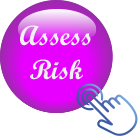
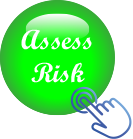
style: made zone buttons colourfull

diff --git a/src/app/pages/home-results/home-results.page.html b/src/app/pages/home-results/home-results.page.html
@@ -32,67 +32,49 @@
     </ion-card-header>
   </ion-card>
   <ion-card class="content-card home-content">
-    <ion-card-content>
       <ion-grid >
         <ion-row>
-          <ion-col size="" offset="">
-              <ion-item (click)="goToRiskAssessment()" button="true" >
-                <ion-img
-                  src="assets/button_icons/risk_assmt_bc.png" >
-                </ion-img>
-              </ion-item>                  
+          <ion-col size="4" offset="2">
+            <ion-img (click)="goToRiskAssessment()" button="true"
+              src="assets/button_icons/risk_assmt_bc.png" >
+            </ion-img>
           </ion-col>
-          <ion-col size="" offset="">
-            <ion-item (click)="goToTips()" button="true">
-                <ion-img
-                  src="assets/button_icons/general_bh_tips.png" >
-                </ion-img>
-            </ion-item>                
+          <ion-col size="4" offset="">
+            <ion-img (click)="goToTips()" button="true"
+              src="assets/button_icons/general_bh_tips.png" >
+            </ion-img>
           </ion-col>
         </ion-row>
         <ion-row>
-          <ion-col size="" offset="">
-            <ion-item (click)="goToSpecialist()" button="true" >
-              <ion-img               
+          <ion-col size="4" offset="">
+              <ion-img (click)="goToSpecialist()" button="true"              
                 src="assets/button_icons/specialist_consults.png" >          
               </ion-img>
-            </ion-item>
           </ion-col>
-          <ion-col size="" offset="">
-              <ion-item (click)="goToUploadMedicalRecords()" button="true" >
-                <ion-img               
-                  src="assets/button_icons/upload_medical_records.png" >          
-                </ion-img>
-              </ion-item>
-            </ion-col>
-        </ion-row>
-        <ion-row>
-          <ion-col size="" offset="3">
-            <ion-item (click)="goToSelfCareLink()" button="true" >
-              <ion-img
-                src="assets/button_icons/breastselfexam.png">                  
+          <ion-col size="4" offset="">
+            <ion-img (click)="goToSelfCareLink()" button="true"
+              src="assets/button_icons/breastselfexam.png">                  
+            </ion-img>
+          </ion-col>
+          <ion-col size="4" offset="">
+              <ion-img (click)="goToUploadMedicalRecords()" button="true"              
+                src="assets/button_icons/upload_medical_records.png" >          
               </ion-img>
-            </ion-item>
           </ion-col>
         </ion-row>
         <ion-row>
-          <ion-col size="" offset="">
-            <ion-item (click)="goTosignsAndSymptoms()" button="true" >
-              <ion-img         
+          <ion-col size="4" offset="2">
+              <ion-img tappable (click)="goTosignsAndSymptoms()" button="true"        
                 src="assets/button_icons/signs_and_symptoms.png" >
               </ion-img>
-            </ion-item>                
           </ion-col>
-          <ion-col size="" offset="">
-            <ion-item (click)="goToSupportGroup()" button="true" >
-              <ion-img
+          <ion-col size="4" offset="">
+              <ion-img (click)="goToSupportGroup()" button="true"
                 src="assets/button_icons/support_groups.png" >
               </ion-img>
-            </ion-item>                    
           </ion-col>
         </ion-row>
       </ion-grid>
-    </ion-card-content>
     
     <ion-footer >    
       <ion-item>
